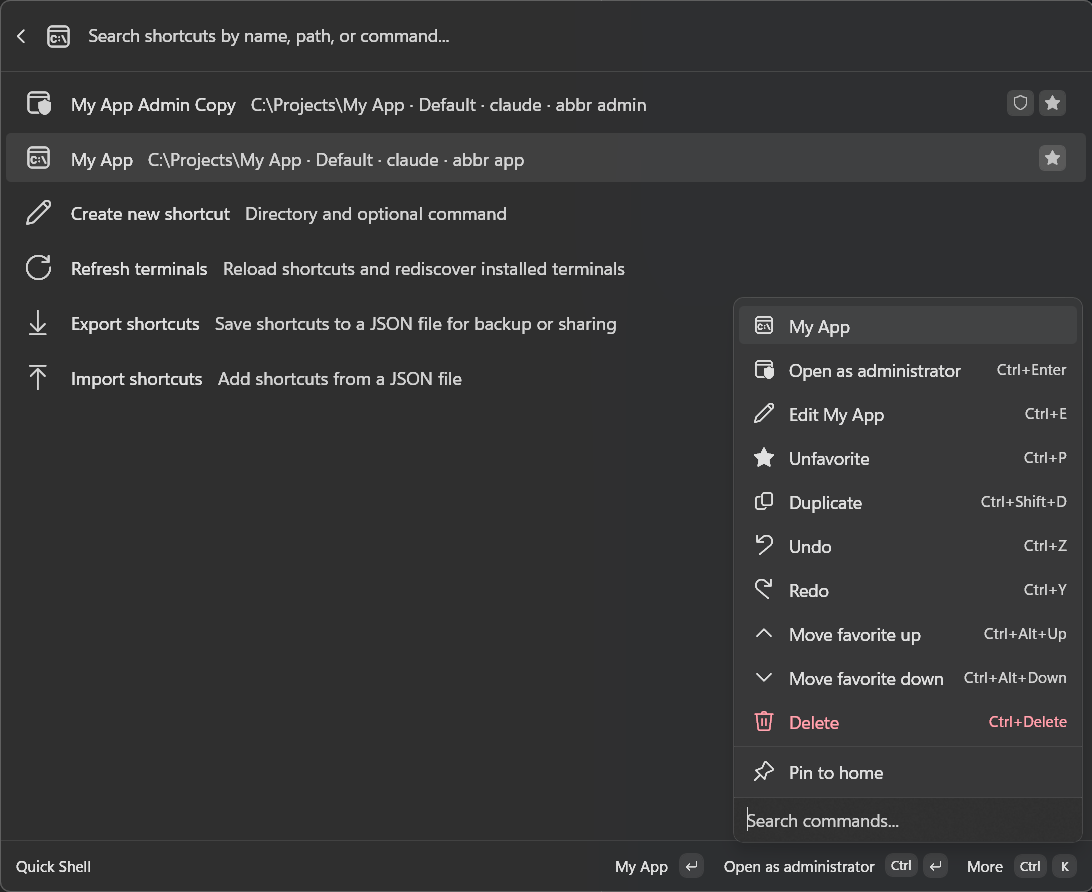
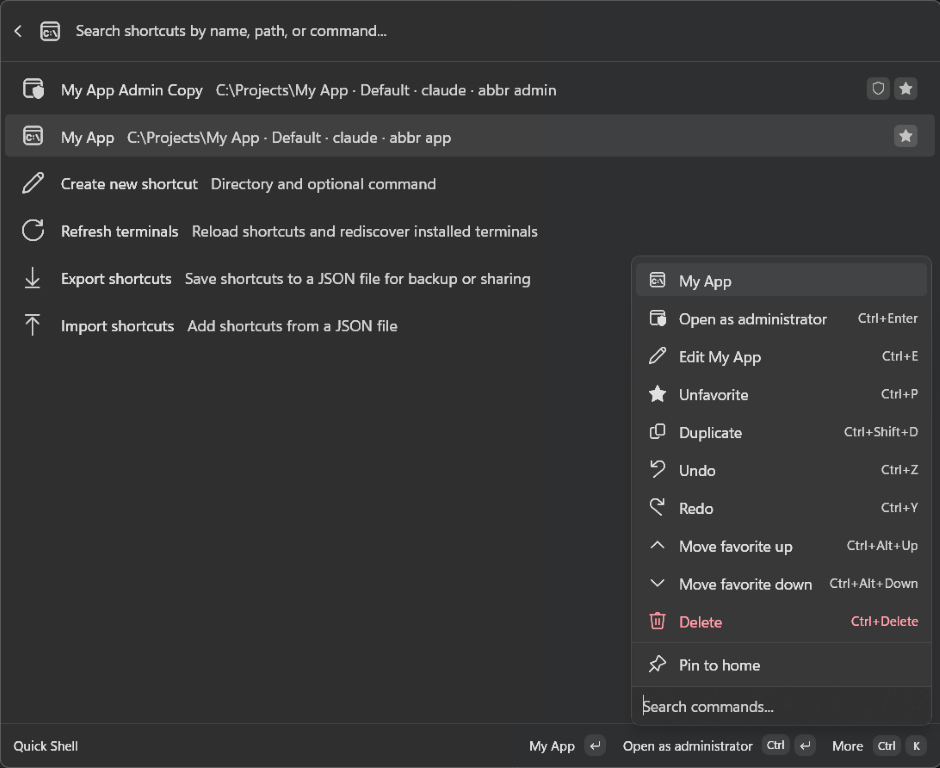
chore: release v0.1.6.0 with Store listing and terminal copy updates
Bump version for Store and GitHub release, improve any-terminal wording, update screenshots and assets, and refresh WinGet release notes.

Changed region(s): [[0.7404, 0.5, 0.7713, 0.5312], [0.3702, 0.0312, 0.4011, 0.0625], [0.1543, 0.2812, 0.1851, 0.3125]]

diff --git a/QuickShell/Pages/ShortcutFormPage.cs b/QuickShell/Pages/ShortcutFormPage.cs
@@ -163,6 +163,13 @@ internal sealed partial class ShortcutForm : FormContent
               "spacing": "Medium"
             },
             {
+              "type": "TextBlock",
+              "text": "Every Windows Terminal profile on your PC — custom shells included — plus WSL and classic shells.",
+              "wrap": true,
+              "isSubtle": true,
+              "spacing": "Small"
+            },
+            {
               "type": "Input.Toggle",
               "id": "RunAsAdmin",
               "title": "Always run as administrator",

diff --git a/QuickShell/QuickShellCommandsProvider.cs b/QuickShell/QuickShellCommandsProvider.cs
@@ -44,7 +44,7 @@ public partial class QuickShellCommandsProvider : CommandProvider, IDisposable
             new CommandItem(_page)
             {
                 Title = DisplayName,
-                Subtitle = "Open saved folders in your terminal",
+                Subtitle = "Open saved folders in any terminal you use",
                 Icon = new IconInfo("\uE756"),
 #if CMDPAL_HOVER_ACTIONS
                 HomeHoverActionsMode = HoverActionsMode.Explicit,

diff --git a/QuickShell/QuickShellSettingsManager.cs b/QuickShell/QuickShellSettingsManager.cs
@@ -20,7 +20,7 @@ internal sealed class QuickShellSettingsManager
         _settings.Add(new ChoiceSetSetting(DefaultTerminalId, choices)
         {
             Label = "Default terminal",
-            Description = "Used when a shortcut is set to Default. Lists Windows Terminal profiles and installed shells.",
+            Description = "Used when a shortcut is set to Default. Includes every Windows Terminal profile on your PC, plus WSL and other installed shells.",
         });
 
         if (!choices.Any(c => c.Value.Equals(initial, StringComparison.OrdinalIgnoreCase)))

diff --git a/README.md b/README.md
@@ -2,20 +2,28 @@
 
 **Open your favorite project folders from [PowerToys Command Palette](https://learn.microsoft.com/windows/powertoys/command-palette/overview) — in one search.**
 
-Save directories you use every day, pick a terminal, optionally run a command on open (`dotnet run`, `npm run dev`, and so on), and jump there without digging through File Explorer.
+Save directories you use every day, open them in whichever terminal you actually use, optionally run a command on open (`dotnet run`, `npm run dev`, and so on), and jump there without digging through File Explorer.
 
 ---
 
 ## What you can do
 
 - **Save shortcuts** to folders you open often, with optional **home keywords** for fast root search
-- **Launch in your terminal** — Windows Terminal (with profile), PowerShell, PowerShell 7, or cmd
+- **Any terminal you use** — every Windows Terminal profile on your PC (custom shells included), plus WSL and classic shells
 - **Run a command on open** — start dev servers, scripts, or anything else automatically
 - **Favorite shortcuts** so they stay at the top of your list
 - **Create and edit shortcuts in Command Palette** — no hand-editing JSON required
 - **Import and export shortcuts** as JSON for backup, sharing, or moving to another PC
 - **Open elevated** when you need admin — from the ⋯ menu or with **Ctrl+Enter**
 - **Search from the root palette** — type a home keyword like `api` and matching shortcuts appear without opening the extension first
+
+---
+
+## Terminals
+
+Quick Shell reads your **Windows Terminal** `settings.json` and lists **every profile** you have configured — including custom shells such as Alacritty, WezTerm, Git Bash, or Ubuntu. It also discovers **WSL** distros and classic shells on your PATH (**PowerShell**, **pwsh**, **cmd**).
+
+After you install a new terminal or edit Windows Terminal profiles, run **Refresh terminals** inside Quick Shell to update the list.
 
 ---
 
@@ -101,7 +109,7 @@ Each shortcut supports these fields in `shortcuts.json`:
 | `Directory` | Yes | Folder to open |
 | `Abbreviation` | No | **Home keyword** — type at the Command Palette home screen to jump to this shortcut (e.g. `api`). JSON field name stays `Abbreviation`. |
 | `Command` | No | Command to run after opening the folder |
-| `Terminal` | No | `wt`, `powershell`, `pwsh`, or `cmd` (default: `wt`) |
+| `Terminal` | No | Launch target: `default`, `wt` (Windows Terminal — pair with `WtProfile` for a specific profile), `powershell`, `pwsh`, `cmd`, or `wsl`. Shells wired through Windows Terminal appear as profiles in the picker. |
 | `RunAsAdmin` | No | `true` to always launch elevated (UAC prompt); also available as a checkbox when editing in Command Palette |
 | `IsPinned` | No | `true` to favorite the shortcut (keeps it at the top of your Quick Shell list) |
 
@@ -151,7 +159,7 @@ For contributors and local MSIX installs (recommended for development):
 
 # WinGet-style EXE installers (x64 + ARM64)
 cd QuickShell
-.\build-exe.ps1 -Version 0.1.5.0
+.\build-exe.ps1 -Version 0.1.6.0
 ```
 
 Then run **Reload Command Palette Extension** in Command Palette.